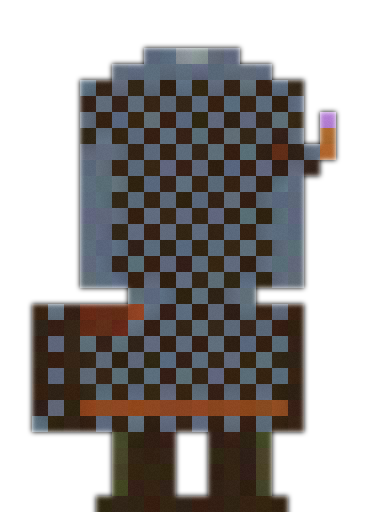
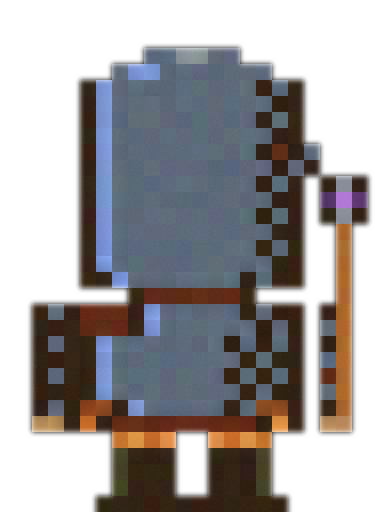
asset-pipeline: redraw the back-facing spellsword so it stops reading as a checkerboard
The character_idle_back texture loaded fine; its pixel map filled the
whole hood and cloak with the front view's slate/brown dither, which
nothing broke up from behind. v2: solid slate cloak with a periwinkle
rim light, shadow-side-only dither, leather trim at neck and hem, the
orange tunic hem showing, and the staff fully visible.

diff --git a/tools/asset-pipeline/src/pixelmaps/character-idle-back.ts b/tools/asset-pipeline/src/pixelmaps/character-idle-back.ts
@@ -1,57 +1,66 @@
 import type { PixelMap } from "../pixelmap.js";
 
 // Back view of character-idle.ts's spellsword, same 24x32 silhouette and
-// palette: hood/cloak dither (H/N) now covers the whole torso where the
-// front view showed face and tunic, since none of that is visible from
-// behind. The staff (full ring+gem+shaft down the front view's right side)
-// is strapped diagonally across the back instead, so only its wood tip and a
-// glint of the gem clear the shoulder line — "edge-on." Boots and legs are
-// unchanged; they read the same from either side at this resolution.
+// palette. v1 of this map filled the whole hood and cloak with the front
+// view's H/N (slate/dark-brown) dither — fine on the front, where the face
+// and orange tunic break it up, but from behind nothing did, so in game the
+// back view read as a grey checkerboard (2026-09-28 playtest). v2 keeps the
+// cloak solid slate, lit from the upper left with a periwinkle rim (L)
+// and only the shadow side dithered (N), closes the hood with a leather trim
+// band at the neck and the cape with one at the hem, lets the orange tunic
+// hem show under the cape, and keeps the staff fully visible in the same
+// hand as the front view (ring + gem + shaft) rather than strapped edge-on.
 export const characterIdleBack: PixelMap = {
 	name: "character_idle_back",
 	width: 24,
 	height: 32,
 	legend: {
-		H: 31, // cool shadow blue-gray — cloak/hood base (half of the navy dither)
-		N: 0, // darkest brown — cloak/hood dither partner
+		H: 31, // cool shadow blue-gray — cloak/hood base
+		L: 37, // periwinkle — cloak fold highlight, gives the navy read without a dither
+		N: 0, // darkest brown — cloak outline and shadow folds
 		h: 28, // steel gray — hood cap fleck
-		O: 0, // darkest brown — outline: torso/cloak seams, boots
-		e: 2, // dark red-brown — leather base (shoulder pad, hood trim)
-		b: 5, // burnt orange-brown — leather highlight (belt, wraps all the way around)
+		O: 0, // darkest brown — outline: arm seams, boots
+		e: 2, // dark red-brown — leather (shoulder pad, hood trim)
+		b: 5, // burnt orange-brown — belt, visible either side of the cape
+		t: 13, // orange — tunic hem under the cape (half of the orange dither)
+		u: 20, // light orange — tunic hem highlight
+		c: 16, // tan — hands
+		S: 28, // steel gray — staff ring
+		q: 32, // deep plum — staff ring socket
+		j: 33, // bright amethyst — staff gem
+		w: 10, // orange-brown — staff wood shaft
 		P: 3, // dark olive — pants base
 		p: 0, // darkest brown — pants shadow
-		j: 33, // bright amethyst — staff gem, glinting just above the shoulder
-		w: 10, // orange-brown — staff wood shaft, edge-on
 	},
 	rows: [
 		"........................",
 		"........................",
 		"........................",
 		".........HHhhHH.........",
-		".......HHHHHHHHHH.......",
-		".....HNHNHNHNHNHNHN.....",
-		".....NHNHNHNHNHNHNH.....",
-		".....HNHNHNHNHNHNHN.j...",
-		".....NHNHNHNHNHNHNH.w...",
-		".....HHHNHNHNHNHNeNHw...",
-		".....HHNHNHNHNHNHNHN....",
-		".....HHHNHNHNHNHNHH.....",
-		".....HHNHNHNHNHNHHH.....",
-		".....HHHNHNHNHNHNHH.....",
-		".....HHNHNHNHNHNHHH.....",
-		".....HHHNHNHNHNHNHH.....",
-		".....HHNHNHNHNHNHHH.....",
-		".....HHHNHNHNHNHNHH.....",
-		"........HHHNHNHH........",
-		"..OHOeeebHNHNHNHNHO.....",
-		"..ONOeeeHNHNHNHNHNO.....",
-		"..OHOHNHNHNHNHNHNHO.....",
-		"..ONONHNHNHNHNHNHNO.....",
-		"..OHOHNHNHNHNHNHNHO.....",
-		"..ONONHNHNHNHNHNHNO.....",
-		"..OHObbbbbbbbbbbbbO.....",
-		"..HNONHNHNHNHNHNHNO.....",
-		".......Pppp..pppP.......",
+		".......HLLHHHHHHH.......",
+		".....NLHHHHHHHHHNHN.....",
+		".....NLHHHHHHHHHHNN.....",
+		".....NLHHHHHHHHHNHN.....",
+		".....NLHHHHHHHHHHNN.....",
+		".....NLHHHHHHHHHNeNH....",
+		".....NLHHHHHHHHHHNHN....",
+		".....NLHHHHHHHHHNHN.OSO.",
+		".....NLHHHHHHHHHHNN.qjq.",
+		".....NLHHHHHHHHHNHN.OSO.",
+		".....NLHHHHHHHHHHNN..w..",
+		".....NLHHHHHHHHHNHN..w..",
+		".....NLHHHHHHHHHHNN..w..",
+		".....NNLHHHHHHHNHNN..w..",
+		"........NeeeeeeN.....w..",
+		"..OHOeeeNLHHHHHNHNO.Nw..",
+		"..ONOeeeNLHHHHHHNHO.Hw..",
+		"..OHONLHHHHHHHNHNHO.Nw..",
+		"..ONONLHHHHHHHHNHNO.Hw..",
+		"..OHONLHHHHHHHNHNHO.ew..",
+		"..ONONLHHHHHHHHNHNO.Hw..",
+		"..OHObbNLHHHHHNHbbO.Nw..",
+		"..ccOtNeeeeeeeeeNuO.cc..",
+		".......tutu..utut.......",
 		".......Pppp..pppP.......",
 		".......Pppp..pppP.......",
 		".......Pppp..pppP.......",
